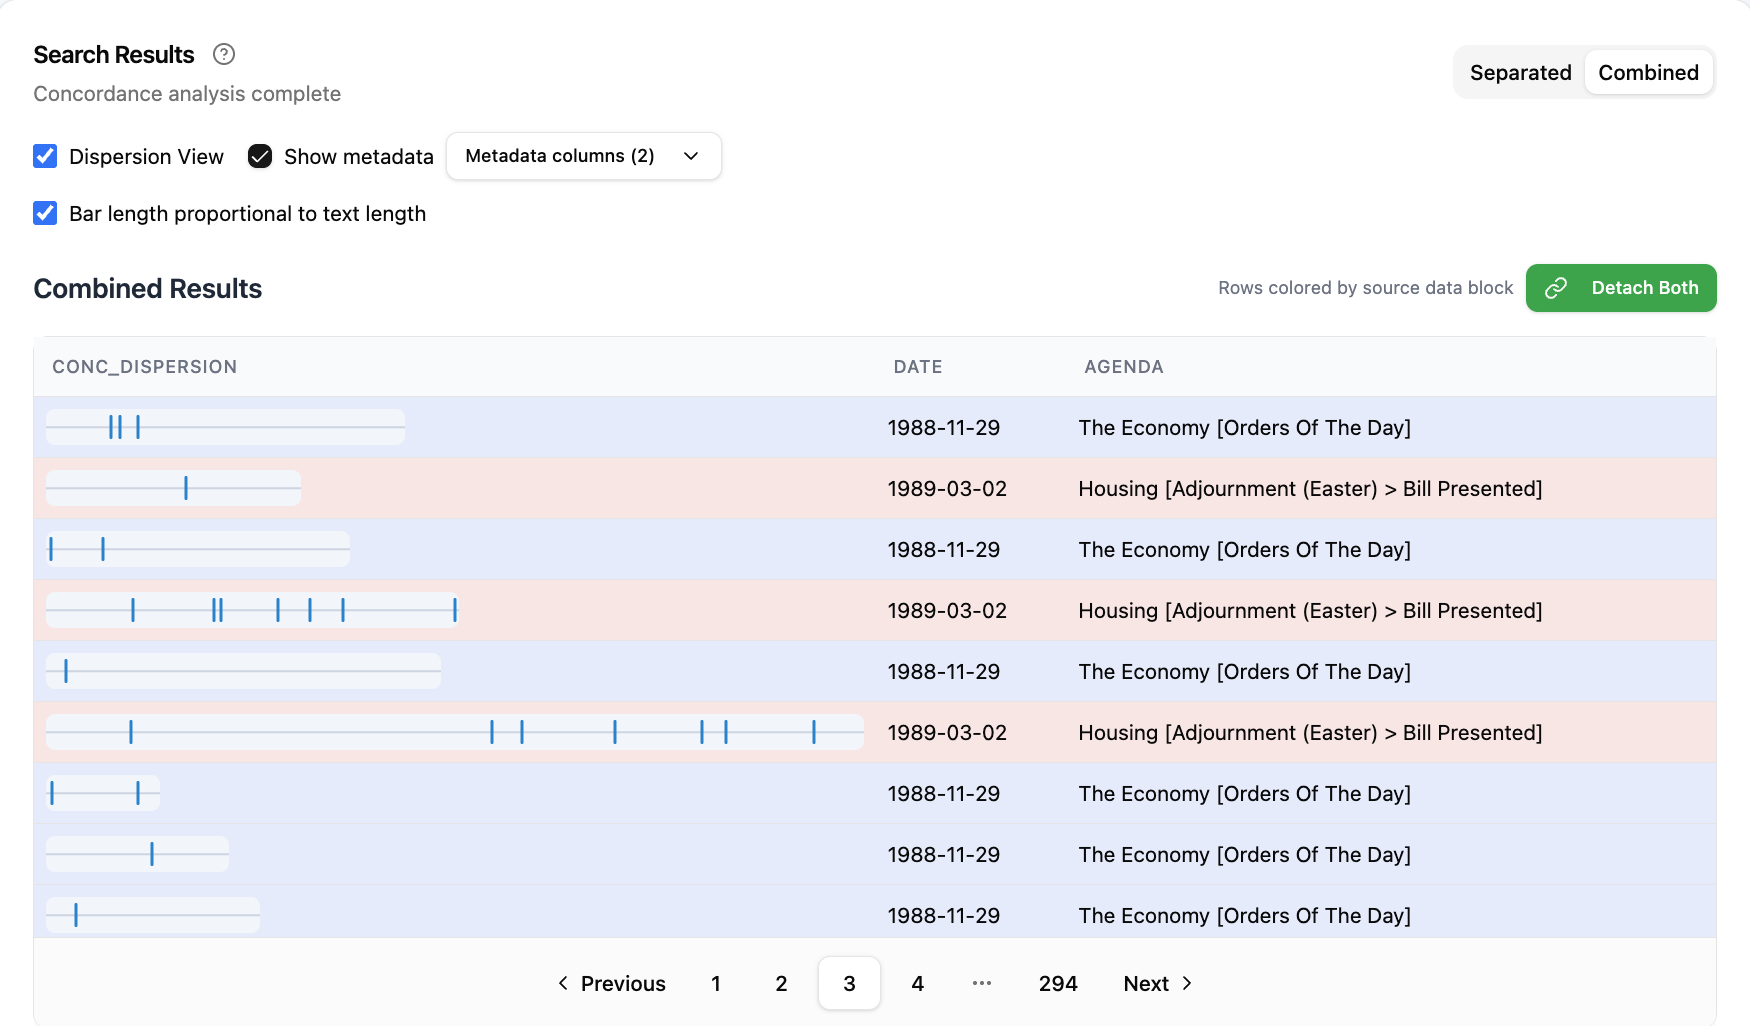
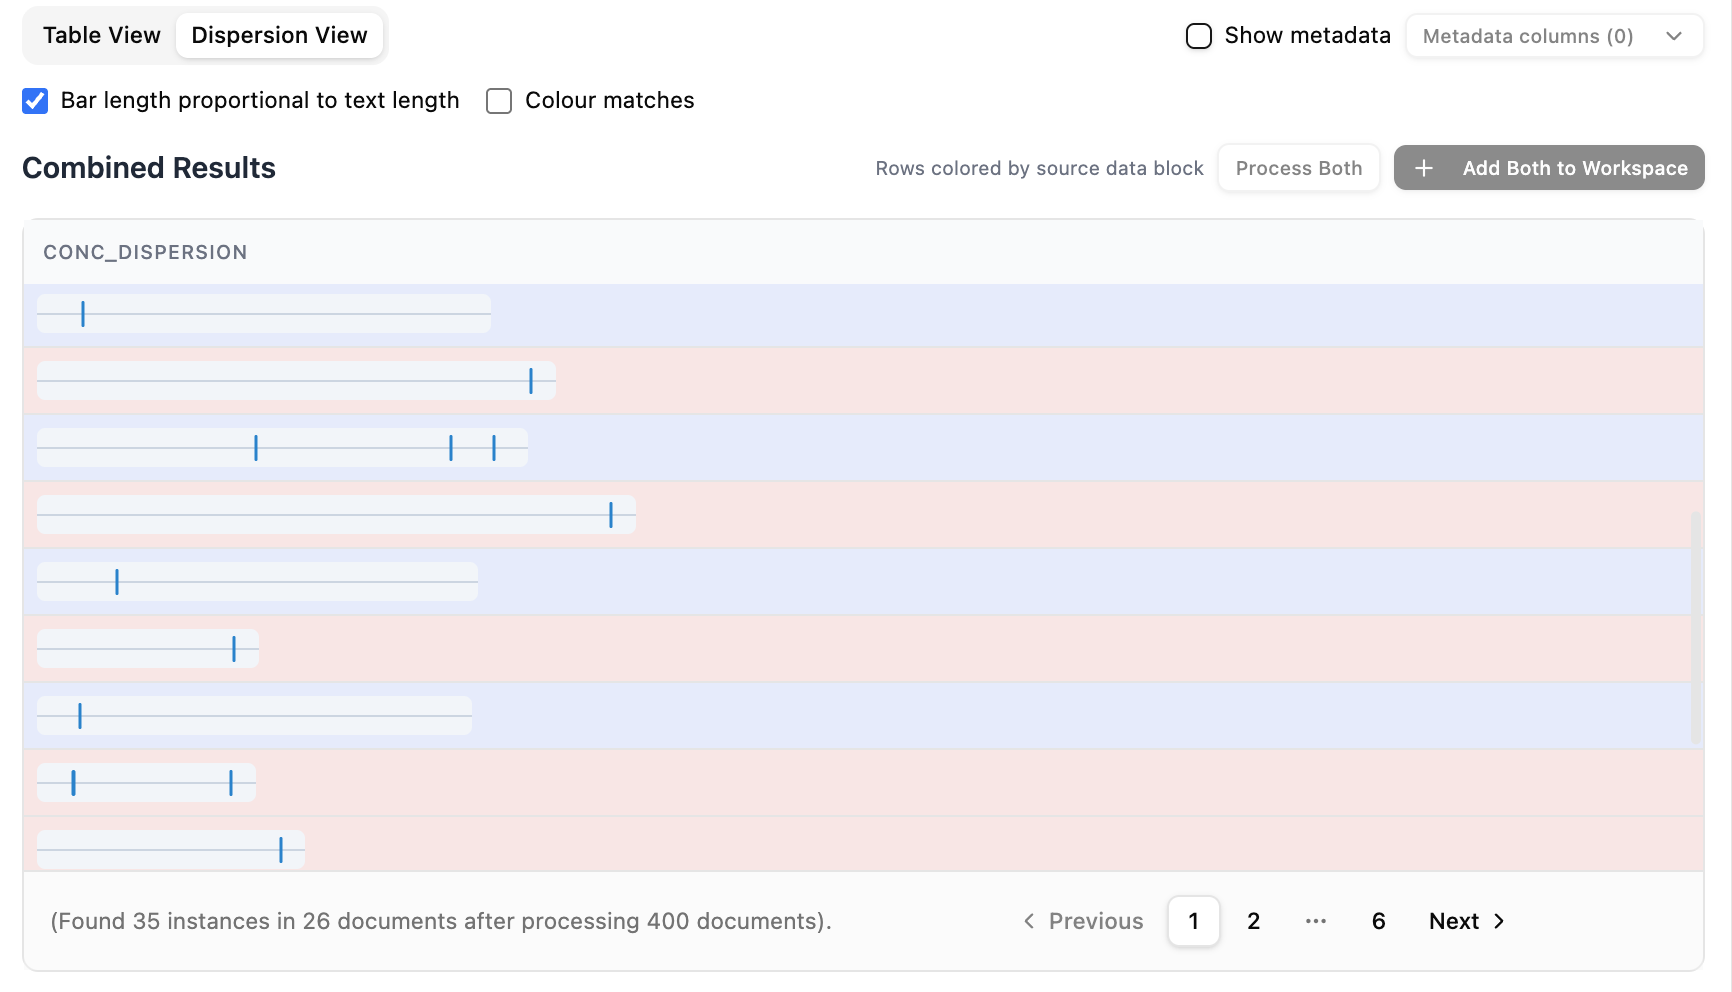
Updates to Concordance Tutorial

diff --git a/frontend/public/tutorials/concordance.md b/frontend/public/tutorials/concordance.md
@@ -49,43 +49,135 @@ The pagination footer shows **Documents searched / N matches found**, telling yo
 
 <h2 id="help-concordance-run">Step 5 — Run the search</h2>
 
-Click **Run** to start the concordance search. The button changes to **Update** once results exist; change the search term or settings and click **Update** to re-run.
+Click **Run** to start the concordance search. The button changes to **Update** once results exist; change the search term or settings and click **Update** to re-run. Updating the search creates a new analysis task and clears any previously cached "Process All" outcome (see [Process All](#help-concordance-process-all)) — re-run only when you actually want fresh results, since you'll need to re-process to get whole-corpus aggregation again.
 
 <h2 id="help-concordance-results">Result panel</h2>
 
-<h3 id="help-concordance-views">Table view and Dispersion view</h3>
+<h3 id="help-concordance-views">View modes — Table view and Dispersion view</h3>
 
-Two view modes are available, switchable via the toggle in the results header:
+Switch between the two view modes via the tabs in the results header. The selection is local to the session and resets when you change tabs.
 
-**Table View**
+<h4 id="help-concordance-table-view">Table view</h4>
 
 ![Table view screenshot](tutorials/assets/concordance/table_view.png)
 
-Each row represents one match. If a document contains multiple matches, each appears as a separate row. Optionally, select metadata columns to display alongside the match using the column picker.
+Each row represents one match. If a document contains multiple matches, each appears as a separate row. Optionally, select metadata columns to display alongside the match using the column picker — see [Show metadata](#help-concordance-metadata) below.
 
-**Dispersion View**
+<h4 id="help-concordance-dispersion-view">Dispersion view</h4>
 
 ![Dispersion view screenshot](tutorials/assets/concordance/dispersion_view.png)
 
-Each row represents one document, and all matches within that document are plotted as vertical lines on a horizontal bar. The position of each line shows the relative location of the match within the document. Toggle **Proportional bar length** to scale bars by document character length, or keep all bars the same length for easier comparison of the relative positions of hits.
+Each row represents one document, and all matches within that document are plotted as vertical lines on a horizontal bar. The position of each line shows the relative location of the match within the document.
+
+**Bar length**
+
+By default every bar is the same length so positions can be compared visually across documents. Toggle **Bar length proportional to text length** to scale each bar by the character length of its document — useful for getting a sense of relative document sizes alongside match positions.
+
+<h4 id="help-concordance-colour">Colour matches and legend</h4>
+
+![Coloured dispersion bars with legend](tutorials/assets/concordance/colour_matches.png)
+
+When the search returns multiple distinct matched strings (most often via a regex pattern), tick **Colour matches** to colour each occurrence by which exact text it matched. A legend appears between the bars and the aggregated summary plot listing every matched text in its assigned colour. The legend is shared by both the bars and the line plot.
+
+- **Click a legend entry** to hide that matched text from both the bars and the plot. The entry is dimmed and struck through; click again to bring it back.
+- Tick **Lowercase matches** to fold case variants together — e.g. *Hello* and *hello* aggregate as a single legend entry rather than two.
+
+<h4 id="help-concordance-tooltip">Hover tooltip on matches</h4>
+
+![Hover tooltip on a dispersion bar](tutorials/assets/concordance/dispersion_tooltip.png)
+
+Hover over any vertical match line in the dispersion bar to see a small tooltip with the immediate left context, the matched text (rendered in the same colour as the bar), and the right context — equivalent to the row a Table view would show, but reachable directly from the dispersion plot.
+
+<h3 id="help-concordance-summary-plot">Aggregated dispersion summary plot</h3>
+
+![Aggregated dispersion summary plot](tutorials/assets/concordance/summary_plot.png)
+
+When the dispersion view is on **and** bars are *not* set to proportional length, an aggregated line plot appears under each table. It shows how matches are distributed across the relative position in documents — x-axis is 0–100 %, y-axis is the count of matches in each percentage bucket. There is one line per matched text, coloured to match the legend; clicking the legend hides those matched texts from the plot too.
+
+<h4 id="help-concordance-bin-count">Bin No. selector</h4>
+
+The **Bin No.** dropdown in the dispersion options row controls how many buckets the 0–100 % range is divided into. Allowed values are `4, 5, 10, 20, 25, 50, 100` (default `20`). All counts divide 100 cleanly so the plot can be re-aggregated instantly without another fetch — switching between values is immediate. Hovering a point on the line shows the bucket range (e.g. *0-5 %*, *6-10 %*) along with the count.
+
+<h4 id="help-concordance-download">Download the plot</h4>
+
+![Plot download dialog](tutorials/assets/concordance/download_dialog.png)
+
+Use the download button at the top-right of the summary plot to export it as a PNG, SVG, or JPEG. The exported image includes the data block name, the search term, the bin count, and the legend — with hidden legend entries rendered faded and struck through, so the image always reflects the on-screen filter state.
+
+<h3 id="help-concordance-metadata">Show metadata</h3>
+
+![Metadata dropdown sections](tutorials/assets/concordance/metadata_sections.png)
+
+Tick **Show metadata** to display extra columns from the source data block alongside each match. The column picker offers checkbox toggles for every available metadata column.
+
+When **two** data blocks are selected, the picker is grouped:
+
+- Common columns (present in both blocks) appear first, in default colour.
+- Below a divider, columns that exist in only one block are listed in their own section, with text tinted to that block's colour. The colour matches the swatch in the data-block panel above the parameter form, so you can tell at a glance which block a column came from.
+
+When the two blocks have identical metadata (or only one block is selected), the picker is a flat list with no sections.
 
 <h3 id="help-concordance-display-mode">Separated and combined display</h3>
 
-When two data blocks are selected, choose between **Separated** mode (each data block shown in its own section) and **Combined** mode (results interleaved, with the background colour of each row indicating its source data block).
+When two data blocks are selected, choose between **Separated** mode (each data block shown in its own section, with its own dispersion bars and summary plot) and **Combined** mode (results interleaved, with the row background colour indicating its source data block). The choice is persisted alongside the result.
+
+<h4 id="help-concordance-sources-mode">Combined view: Sources Aggregate / Split</h4>
+
+![Sources split-by-source line plot](tutorials/assets/concordance/sources_split.png)
+
+In Combined view a **Sources:** dropdown appears in the dispersion options row with two choices:
+
+- **Aggregate** *(default)* — hits from both data blocks are pooled into a single distribution line per matched term.
+- **Split (solid/dashed)** — every matched term gets two lines: a solid line for the first source data block and a dashed line for the second. A small key under the chart shows which dash style maps to which source. This is useful for spotting whether the two corpora use the term in different positions of their documents.
+
+The Sources selector is independent of **Colour matches** — split-by-source still works when colouring is off (in that case all lines are drawn in the same default colour, just solid vs dashed).
+
+<h2 id="help-concordance-process-all">Process All — full-corpus dispersion</h2>
+
+![Process All button states](tutorials/assets/concordance/process_all_button.png)
+
+By default, the dispersion view and its summary plot only reflect the **current page** of source documents. The pagination footer is the source of truth — what you see is what was loaded for that page.
+
+Click **Process All** to materialise every match across the entire corpus to a backend cache. While the task is running the button shows **Processing…**; when it finishes it shows **Processed** and is disabled. The cache stays valid until the search parameters change.
+
+<h3 id="help-concordance-all-processed">"All processed" toggle on the summary plot</h3>
+
+![All processed toggle](tutorials/assets/concordance/all_processed_toggle.png)
+
+Once Process All has completed, the summary plot's toolbar gains an **All processed** checkbox (auto-ticked the first time materialisation finishes). It switches the plot's data source between:
+
+- **Off** — the plot summarises matches from the **current page** only. The title under the chart reads *Aggregated matches of the documents above*.
+- **On** — the plot summarises matches across the **entire materialised corpus**. The title reads *Aggregated matches of data block - {name}*.
+
+While the materialised counts are still being fetched, the toggle label briefly reads *(loading…)*; once the data lands, the suffix disappears and the plot updates.
+
+<h3 id="help-concordance-process-both">Combined view: Process Both</h3>
+
+![Combined view buttons](tutorials/assets/concordance/combined_view_buttons.png)
+
+In Combined view, the per-block Process All button is replaced by **Process Both**. It iterates the two selected data blocks and materialises any that aren't already cached — clicking it after only one block has been processed will just process the missing one (already-materialised blocks are skipped). The button label states are equivalent to Process All:
+
+- **Process Both** — at least one block still needs processing.
+- **Processing…** — at least one materialise task is currently running.
+- **Processed** — both blocks are materialised; the button is disabled.
+
+When the search term changes and you click **Update**, the cache for both blocks is cleared and the button reverts to **Process Both**.
 
 <h3 id="help-concordance-detach">Add to Workspace</h3>
 
 ![Concordance detach screenshot](tutorials/assets/concordance/detach_datablocks.png)
 
-The **Add to Workspace** button extracts the full search results as a new derived data block in the workspace. The detached block is automatically named *originalName*_conc and can be renamed later.
+The **Add to Workspace** button extracts the full search results as a new derived data block in the workspace. The detached block is automatically named *originalName*_conc and can be renamed later. In Combined view the button is **Add Both to Workspace** and creates a derived block per source.
 
 ![Concordance detach metadata](tutorials/assets/concordance/detach_metadata.png)
 
 At the start of the detach process, a dialog lets you choose which metadata columns from the parent data block to carry over. Consider your downstream analysis needs when making this selection — for example, include a date column if you plan to use the detached block in Trends and Sequence.
 
+If a block has already been processed via Process All, the detach reuses the cached results, which is faster than recomputing them.
+
 <h3 id="help-concordance-clear-results">Clear results</h3>
 
-Concordance results are saved in the backend so the tab can reload and preserve your last results. **Clear Results** removes the cached result from the backend and resets the tab.
+Concordance results are saved in the backend so the tab can reload and preserve your last results. **Clear Results** removes the cached result from the backend and resets the tab. Clearing also discards any Process All caches associated with that task.
 
 <h2 id="help-concordance-troubleshooting">Troubleshooting</h2>
 
@@ -96,6 +188,10 @@ Concordance results are saved in the backend so the tab can reload and preserve 
 | Regex returns an error | Invalid regex syntax | Test your pattern on [regexr.com](https://regexr.com/) first |
 | Results differ unexpectedly between runs | Case Sensitive off; term appears in mixed case | Enable **Case Sensitive** to isolate exact capitalisation |
 | Add to Workspace is disabled | No results loaded | Run the search first, then detach |
+| Process All button is disabled showing **Processed** but I changed the search | The cache was tied to the previous search; it auto-clears on **Update**. | Click **Update** so a new task is created — Process All becomes available again. |
+| "All processed" toggle stuck on *(loading…)* | Slim positions fetch hasn't returned yet, or the backend lost the cache | Wait a few seconds; if it persists, click **Update** then **Process All** again |
+| Two-block summary plot shows only matches from one block in Split mode | The other block isn't materialised yet | Click **Process Both** in the Combined header |
+| Legend item doesn't visibly hide a line on the plot | The line is hidden but you may have many lines stacked at zero | Check that the y-axis scale is appropriate; legend filters work, but lines plotted as zero may visually coincide with the baseline |
 
 <h2 id="help-concordance-defaults">Quick-reference defaults</h2>
 
@@ -106,14 +202,26 @@ Concordance results are saved in the backend so the tab can reload and preserve 
 | Use Regular Expression | Off | — |
 | Case Sensitive | Off | — |
 | Documents per batch | 20 | Larger batches show more per page |
+| View mode | Table | Switch via the View tabs |
+| Bar length proportional | Off | Toggle in dispersion view |
+| Colour matches | Off | Tick to colour by matched text and show the legend |
+| Lowercase matches | Off | Tick under Colour matches to fold case variants |
+| Bin No. (summary plot) | 20 | Allowed: 4, 5, 10, 20, 25, 50, 100 |
+| Sources (Combined view) | Aggregate | Switch to Split for solid/dashed per-source lines |
+| All processed (summary plot) | Off until Process All completes | Auto-ticked on first materialisation |
 
 ## Practice exercise
 
 1. Select a data block and search for a common word in your text.
 2. Enable **Whole Word** and compare the match count with it off.
-3. Enable **Use Regular Expression** and search for two related words at once (e.g. `analyse|analyze`).
-4. Increase the context window to 20 tokens and check whether more surrounding text changes your interpretation.
-5. Click **Add to Workspace** to detach the results; include any date or speaker metadata columns.
-6. Switch to Trends and Sequence, select the detached concordance data block, and plot the matches over time.
+3. Enable **Use Regular Expression** and search for two related variants at once (e.g. `[Aa]nalys[ei]`).
+4. Switch to the **Dispersion** view tab. Tick **Colour matches** and click an entry in the legend to filter that variant from both the bars and the line plot.
+5. Hover over a vertical match line in the dispersion bar to read the surrounding context.
+6. Click **Process All** and wait for **Processed**. Watch the **All processed** toggle appear on the summary plot's toolbar — toggle it on and observe the title and line shape change as the plot switches from page-level to whole-corpus aggregation.
+7. Try changing **Bin No.** between 10, 20 and 50 to see how the smoothing of the line changes.
+8. Download the summary plot as PNG and confirm the title, search term and (filtered) legend appear correctly in the image.
+9. Add a second data block, switch to **Combined** view, click **Process Both**, then try **Sources: Split (solid/dashed)** to compare distributions across the two corpora.
+10. Click **Add Both to Workspace** to detach the results as derived blocks; include any date or speaker metadata columns.
+11. Switch to Trends and Sequence, select the detached concordance data block, and plot the matches over time.
 
 [← Back to tutorial index](./index.md)
